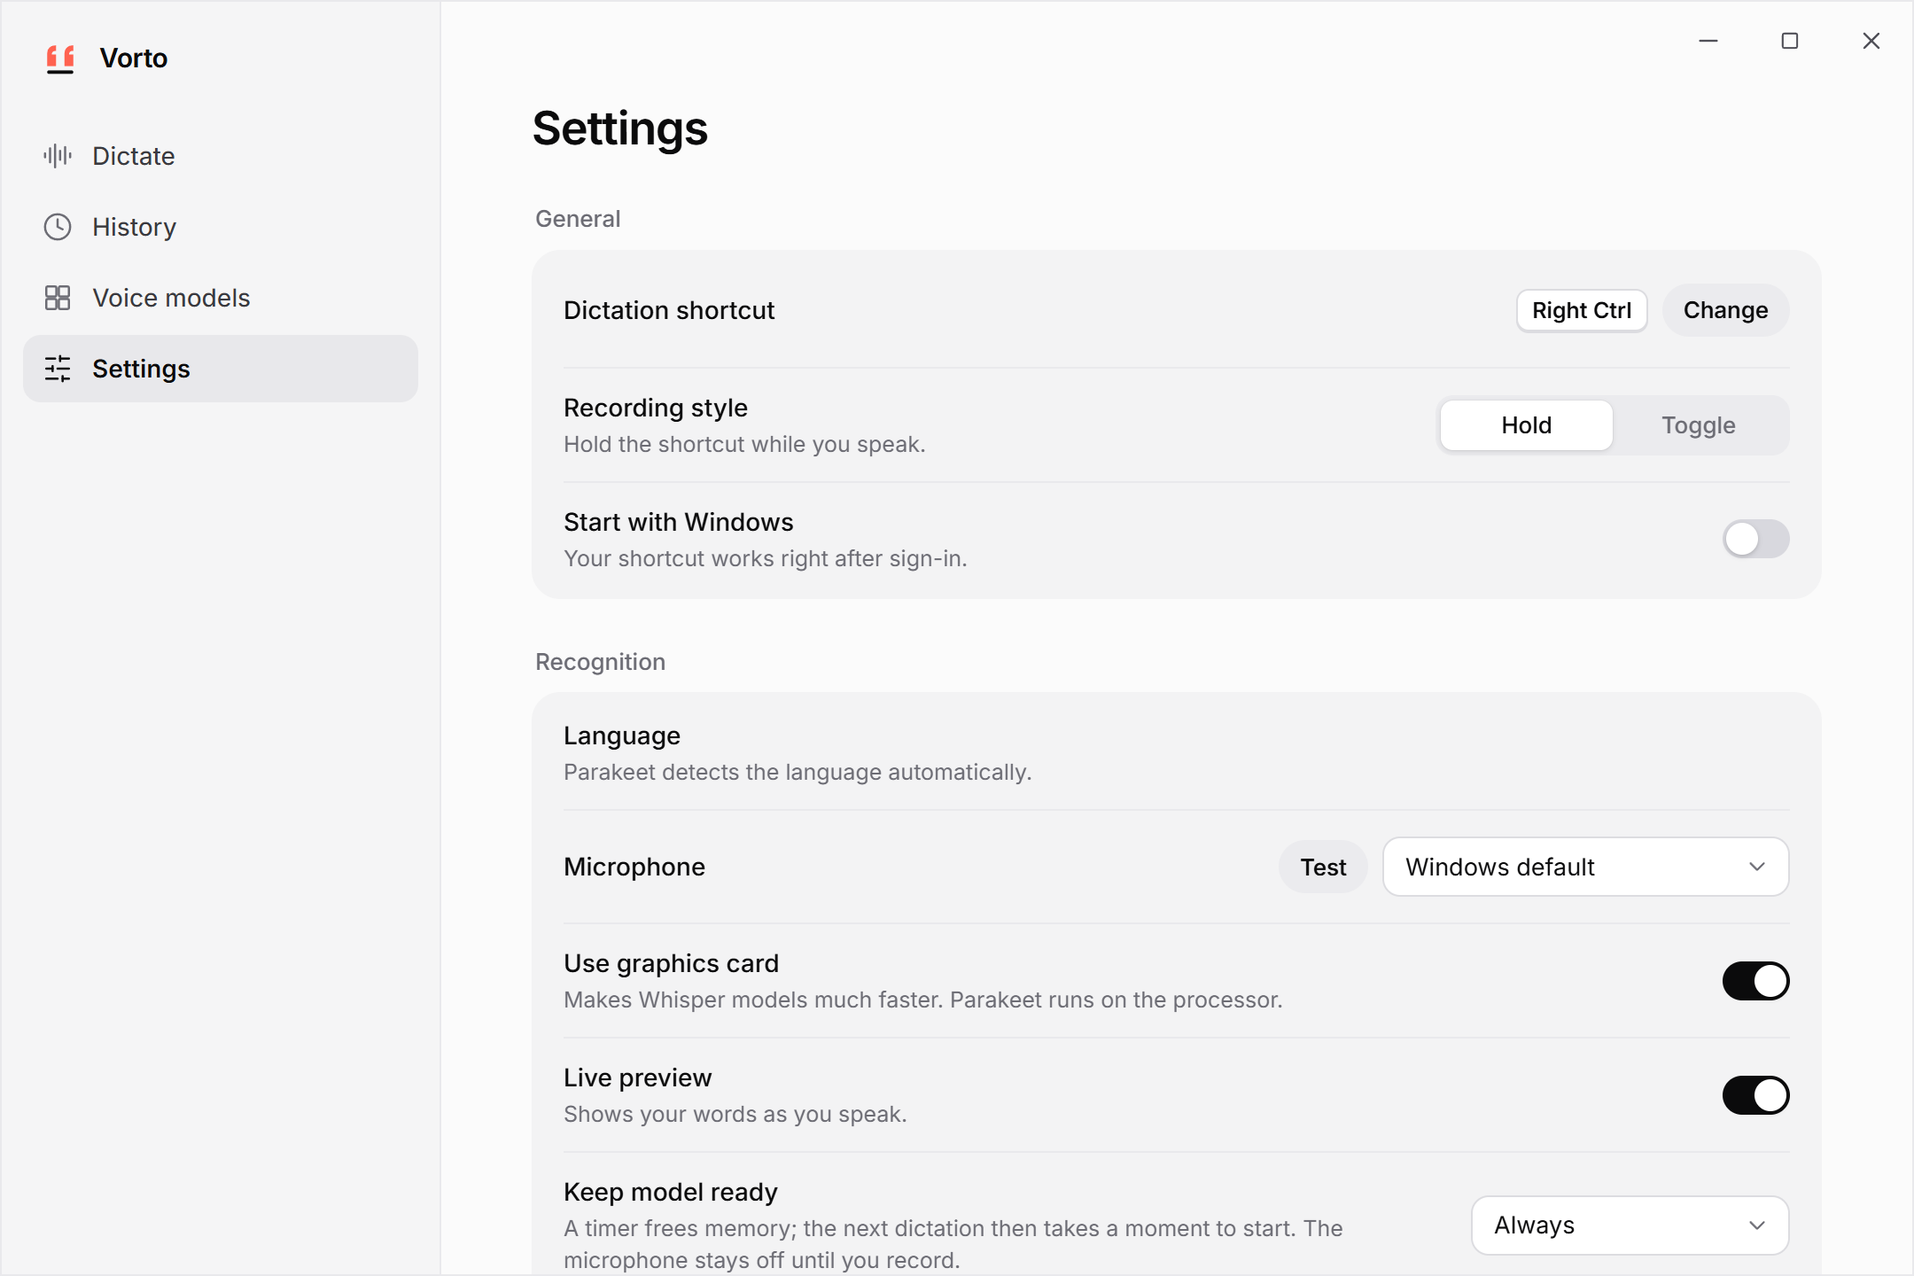
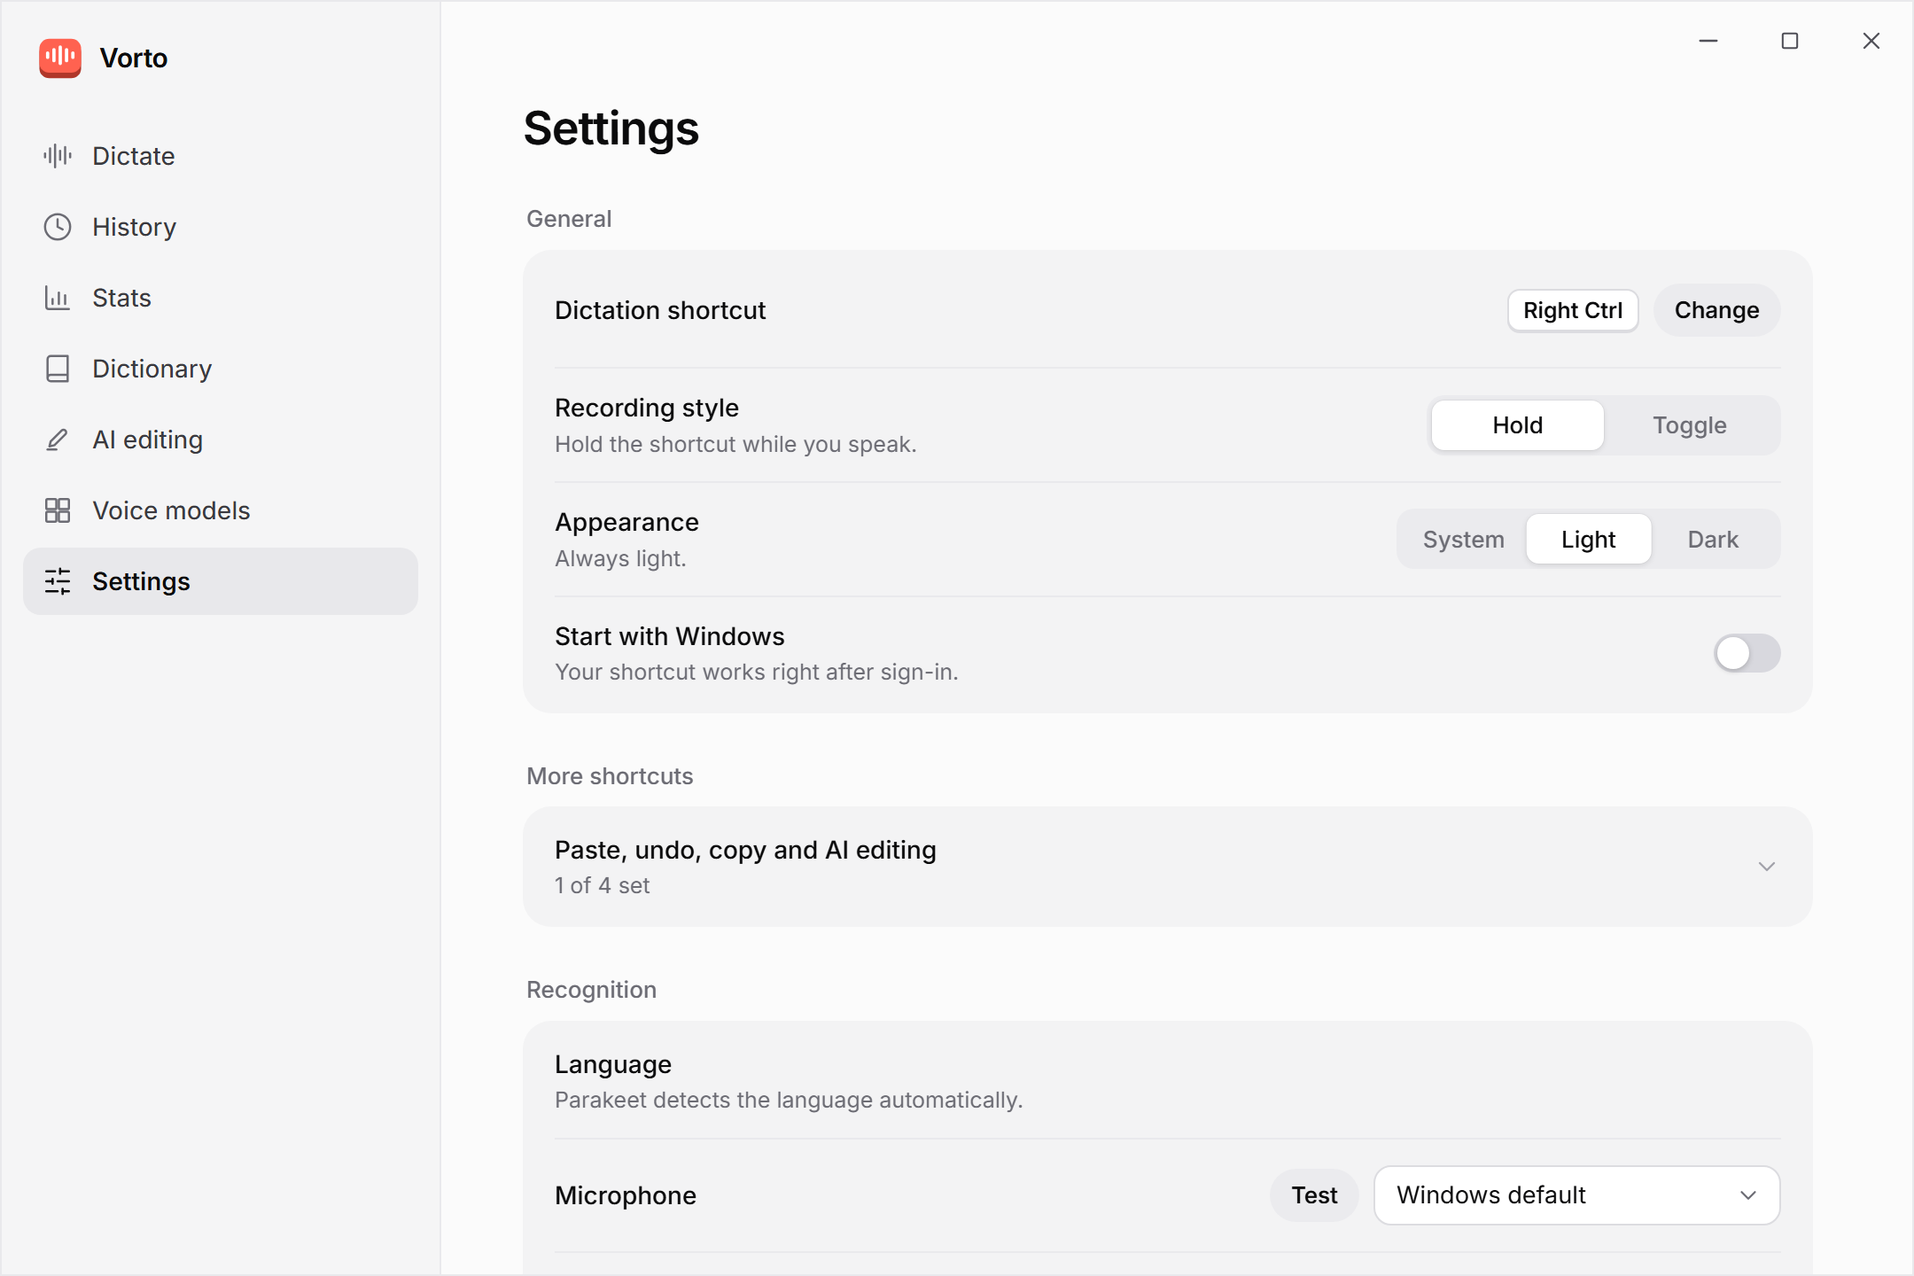
Refresh the README and its screenshots for 1.0.2
A shorter, clearer README with a gallery of AI editing, Stats, History
and voice models, and new light and dark screenshots of every page and
the recording pill. The design mock shows version 1.0.2 and believable
numbers.

diff --git a/ui/src/lib/mock.js b/ui/src/lib/mock.js
@@ -24,7 +24,7 @@ export function startMock({ app, level, route }) {
       shortcuts: { paste_last: [0x11, 0x12, 0x56], undo_last: [], toggle_ai: [], copy_last: [] },
       ai: {
         enabled: true, timeout_secs: 20,
-        providers: params.get("ai") === "empty" ? [] : [{ id: "ollama", name: "Ollama", kind: "openai", base_url: "http://localhost:11434/v1", model: "qwen2.5:0.5b", allow_remote: false }],
+        providers: params.get("ai") === "empty" ? [] : [{ id: "ollama", name: "Ollama", kind: "openai", base_url: "http://localhost:11434/v1", model: "qwen2.5:3b", allow_remote: false }],
         profiles: ["email", "chat", "prompt", "notes", "formal", "clean"].map((id) => ({ id, name: id, enabled: id === "email" || id === "clean", prompt: "", provider: "", model: "", apps: id === "email" ? ["olk.exe"] : [], titles: id === "email" ? ["Gmail"] : [], everywhere: id === "clean" })),
       },
     },
@@ -35,11 +35,11 @@ export function startMock({ app, level, route }) {
       { text: "Could you send me last month's invoice one more time? Thanks so much!", at: day(1, "18:20"), seconds: 5.2, app: "WhatsApp" },
       { text: "Refactor the settings loader so invalid values fall back to safe defaults.", at: day(3, "09:12"), seconds: 4.0, app: "Visual Studio Code" },
     ],
-    wordsToday: 1284, latest: "", notice: { id: 0, text: "", kind: "info", topic: "" },
+    wordsToday: 31, latest: "", notice: { id: 0, text: "", kind: "info", topic: "" },
     target: { name: "Google Chrome", icon: "" },
     hud: { mode: hudMode ?? "hidden", text: params.get("text") ?? hudText[hudMode] ?? "", live: params.get("live") ?? "" },
     microphones: ["Microphone (SM950 Microphone)", "Headset (Arctis 7)"],
-    dataDir: String.raw`C:\Users\you\AppData\Local\app.vorto.desktop`, version: "1.0.0", gpuBuild: true,
+    dataDir: String.raw`C:\Users\you\AppData\Local\app.vorto.desktop`, version: "1.0.2", gpuBuild: true,
     micTest: false, autostart: false, appIcons: {},
     apiKeys: {}, providersLocal: [true], aiModels: {}, aiTest: { id: 0, status: "", text: "", millis: 0 },
     apps: [

diff --git a/README.md b/README.md
@@ -7,7 +7,7 @@
 **Talk into any app on your PC. Your voice never leaves it.**
 
 Local, open-source dictation for Windows. Hold a shortcut, speak and let go:<br>
-Vorto writes it down right where you were typing.
+Vorto writes it down right where you were typing, and can polish it with AI on the way.
 
 [![Latest release](https://img.shields.io/github/v/release/edgar-kessler/vorto?label=release&color=ff6250)](https://github.com/edgar-kessler/vorto/releases/latest)
 [![Downloads](https://img.shields.io/github/downloads/edgar-kessler/vorto/total?color=6c6c74)](https://github.com/edgar-kessler/vorto/releases)
@@ -22,29 +22,60 @@ Vorto writes it down right where you were typing.
 
 <picture>
   <source media="(prefers-color-scheme: dark)" srcset="docs/images/dictate-dark.png">
-  <img src="docs/images/dictate-light.png" width="860" alt="The Vorto window on its Dictate page: Hold Right Ctrl and speak in any app, with today's word and dictation count.">
+  <img src="docs/images/dictate-light.png" width="860" alt="The Vorto window on its Dictate page: Hold Right Ctrl and speak in any app.">
 </picture>
 
 </div>
 
 ## Highlights
 
-- **Works in any app.** Mail, chats, documents, the browser: wherever you can type, Vorto pastes or types your words.
-- **Watch the words arrive.** A small pill at the top or bottom of the screen shows your words while you speak, and the app they're going into.
-- **Stays on your PC.** Recognition runs locally. No account, no uploads, no telemetry.
-- **Long dictations stay quick.** Vorto recognizes finished sentences while you're still talking, so the text is in place a moment after you let go.
-- **Your shortcut, your way.** Any key or key combination, even a single key like Menu. Hold to talk, or press once to start and again to finish. <kbd>Esc</kbd> cancels.
-- **The right voice model for your PC.** Parakeet v3 for 25 European languages on any modern processor, or Whisper for 99 languages.
-- **Your words, your spelling.** A dictionary for names and terms, and replacements such as "new paragraph" for a line break.
-- **AI editing, if you want it.** A language model rewrites each dictation the way you describe for that app, say a polite email in Outlook or a clear prompt in Claude. It runs on your PC with Ollama or LM Studio, or with a provider you choose.
-- **History.** Your last 100 dictations, ready to copy or paste again. Or none, if you turn it off.
-- **Quiet until you need it.** Vorto waits in the tray, can start with Windows, follows light and dark mode and keeps itself up to date.
+- **Works in any app.** Mail, chats, documents, the browser: wherever you can type, Vorto pastes or types your words. A small pill shows them while you speak.
+- **Stays on your PC.** Recognition runs locally with Parakeet v3 or Whisper. No account, no uploads, no telemetry.
+- **Quick, even for long dictations.** Finished sentences are recognized while you're still talking, so the text is in place a moment after you let go.
+- **AI editing, if you want it.** Presets turn what you said into a polite email in Outlook, a clear prompt in Claude or tidy notes, with a model on your PC or a provider you choose.
+- **Your words, your spelling.** A dictionary for names and terms, replacements, and layout by voice: "new line", "as bullet points".
+- **See what it saves you.** Stats show the time saved compared with typing, and History keeps your last 100 dictations, grouped by app.
+
+<table>
+  <tr>
+    <td width="50%" valign="top">
+      <picture>
+        <source media="(prefers-color-scheme: dark)" srcset="docs/images/ai-editing-dark.png">
+        <img src="docs/images/ai-editing-light.png" alt="AI editing page: Ollama as the default provider and the presets Email, Chat message, AI prompt, Notes and lists and Formal writing.">
+      </picture>
+      <p align="center"><sub><b>AI editing</b></sub></p>
+    </td>
+    <td width="50%" valign="top">
+      <picture>
+        <source media="(prefers-color-scheme: dark)" srcset="docs/images/stats-dark.png">
+        <img src="docs/images/stats-light.png" alt="Stats page: 5 h 15 min saved, words, dictations, time spoken and a chart of the last 30 days.">
+      </picture>
+      <p align="center"><sub><b>Stats</b></sub></p>
+    </td>
+  </tr>
+  <tr>
+    <td width="50%" valign="top">
+      <picture>
+        <source media="(prefers-color-scheme: dark)" srcset="docs/images/history-dark.png">
+        <img src="docs/images/history-light.png" alt="History page with dictations grouped by the app they went into.">
+      </picture>
+      <p align="center"><sub><b>History</b></sub></p>
+    </td>
+    <td width="50%" valign="top">
+      <picture>
+        <source media="(prefers-color-scheme: dark)" srcset="docs/images/voice-models-dark.png">
+        <img src="docs/images/voice-models-light.png" alt="Voice models page with Parakeet v3 in use and three Whisper models, each with speed and accuracy.">
+      </picture>
+      <p align="center"><sub><b>Voice models</b></sub></p>
+    </td>
+  </tr>
+</table>
 
 ## Download & install
 
 1. Download **[Vorto-Setup.exe](https://github.com/edgar-kessler/vorto/releases/latest/download/Vorto-Setup.exe)** from the [latest release](https://github.com/edgar-kessler/vorto/releases/latest).
 2. Run it. Vorto installs for your account into `%LOCALAPPDATA%\Vorto` and doesn't need administrator rights. If Microsoft Edge WebView2 is missing, the installer adds it.
-3. The short onboarding helps you download a voice model (once) and pick your shortcut.
+3. The short setup helps you download a voice model (once), test your microphone, pick your shortcut and, if you like, connect AI editing.
 4. Click into any text field, hold <kbd>Right Ctrl</kbd>, speak and let go.
 
 > [!NOTE]
@@ -64,49 +95,17 @@ Processors without AVX2, such as the Celeron N4000, N4500 and N5100 or the Penti
 
 ## Using Vorto
 
-<table>
-  <tr>
-    <td width="33%" valign="top">
-      <picture>
-        <source media="(prefers-color-scheme: dark)" srcset="docs/images/voice-models-dark.png">
-        <img src="docs/images/voice-models-light.png" alt="Voice models page with Parakeet v3 in use and three Whisper models.">
-      </picture>
-      <p align="center"><sub><b>Voice models</b></sub></p>
-    </td>
-    <td width="33%" valign="top">
-      <picture>
-        <source media="(prefers-color-scheme: dark)" srcset="docs/images/history-dark.png">
-        <img src="docs/images/history-light.png" alt="History page listing recent dictations with the app each went into.">
-      </picture>
-      <p align="center"><sub><b>History</b></sub></p>
-    </td>
-    <td width="33%" valign="top">
-      <picture>
-        <source media="(prefers-color-scheme: dark)" srcset="docs/images/settings-dark.png">
-        <img src="docs/images/settings-light.png" alt="Settings page with the dictation shortcut, recording style and recognition options.">
-      </picture>
-      <p align="center"><sub><b>Settings</b></sub></p>
-    </td>
-  </tr>
-</table>
-
 ### Dictate
 
-Hold your shortcut in any app, speak and let go. Your words go where the cursor was. <kbd>Esc</kbd> cancels a dictation, and nothing is kept. A dictation can be up to two minutes long.
+Hold your shortcut in any app, speak and let go. Your words go where the cursor was, and a short glow shows where they landed. <kbd>Esc</kbd> cancels, and nothing is kept. A dictation can be up to two minutes long.
 
-Change the shortcut in **Settings**. Any key or combination works, including a single key like <kbd>Menu</kbd>. **Recording style** switches between holding the shortcut and pressing it once to start and again to finish. To try Vorto without another app, use **Dictate here** on the Dictate page.
-
-Vorto pastes the text in one go, or types it out if you prefer (**Insertion method**). When it pastes, your clipboard is put back afterwards, and the dictation stays out of Windows clipboard history.
-
-A short glow shows where the words landed (**Show where text lands**). Browsers and apps built on them mark the inserted lines; apps that only say where the cursor is get a glowing bar there. Nothing in the app is selected or changed.
-
-### The recording pill
+Any key or combination works as the shortcut, including a single key like <kbd>Menu</kbd>. Hold it while you speak, or press once to start and again to finish (**Recording style**). Vorto pastes the text in one go and puts your clipboard back afterwards, or types it out if you prefer. Dictations stay out of Windows clipboard history.
 
 <p align="center">
-  <img src="docs/images/recording-pill.png" width="620" alt="The dark recording pill: Listening, Google Chrome, 0:06, and the words Thanks for the quick reply. Thursday at ten works great for me.">
+  <img src="docs/images/recording-pill.png" width="620" alt="The dark recording pill: Listening, Google Chrome, a timer, and the words Thanks for the quick reply. Thursday at ten works great for me.">
 </p>
 
-While you speak, the pill shows the app your words go into, a timer and the words as they come in. When you let go it shows a check once the text is in place. It sits at the top or the bottom of the screen (**Indicator position**), and **Live preview** turns the words off if you'd rather not see them.
+The pill at the top or bottom of the screen shows the app your words go into, a timer and the words as they come in, then a check once the text is in place.
 
 ### Voice models
 
@@ -121,39 +120,27 @@ Download one inside the app, once. After that, recognition runs on your PC.
 
 Parakeet runs on the processor through ONNX Runtime. Whisper runs through whisper.cpp, on the graphics card via Vulkan (NVIDIA, AMD and Intel) when there is one.
 
-### Dictionary
-
-Add names and terms under **Dictionary**, such as your company or a colleague's name. Whisper listens for them, and AI editing spells them your way. Vorto also suggests words you use often that look like names or terms.
-
-**Replacements** swap words in every dictation: "Vortho" becomes "Vorto", and "new paragraph" can become a line break (write `\n`).
-
 ### AI editing
 
-Turn on **AI editing** and a language model polishes each dictation before Vorto inserts it. Meanwhile the pill says **Polishing**; press <kbd>Esc</kbd> to insert your words as spoken instead. If the model takes too long or fails, Vorto inserts them as spoken too.
+Turn on **AI editing** and a language model rewrites each dictation before Vorto inserts it. The pill says **Polishing** meanwhile; <kbd>Esc</kbd> inserts your words as spoken instead, and so does a model that's slow or fails.
 
-- **Presets** say what happens: **Email**, **Chat message**, **AI prompt**, **Notes and lists**, **Formal writing** and **Clean up**. Turn on the ones you want and pick their apps from every app you've dictated into, with its icon. For websites, add a word from the browser tab's title, such as Gmail. One preset can also cover every app no other preset is for, and you can add your own wishes to any of them.
-- **Layout by voice:** say "new line", "three lines, the first says …" or "as bullet points", and AI editing lays the text out that way. Line breaks arrive as real line breaks, typed as Shift+Enter so chat apps don't send early.
-- **Providers:** [Ollama](https://ollama.com) or LM Studio on your PC, which Vorto finds on its own, or OpenAI, Anthropic, Google Gemini, Groq, Mistral, OpenRouter, DeepSeek, xAI, Together AI and any other OpenAI-compatible address. Pick one, paste your key and choose a model from the list the provider sends, with names, context sizes and prices from OpenRouter's public catalog where known. You can also type any model ID.
-- API keys are kept in Windows Credential Manager, not in Vorto's settings file.
-- **Try it** runs a preset on sample text, so you can compare models before you dictate. The default provider is marked; presets use its model unless you pick another.
+- **Presets:** Email, Chat message, AI prompt, Notes and lists, Formal writing and Clean up. Turn on the ones you want, pick their apps from the ones you've dictated into, or a website by a word from its tab title, such as Gmail. One preset can cover every other app, and you can add your own wishes to each. Email leaves the sign-off to your email signature.
+- **Layout by voice:** say "new line", "three lines, the first says …" or "as bullet points", and the text is laid out that way.
+- **Providers:** [Ollama](https://ollama.com) or LM Studio on your PC, found on their own, or OpenAI, Anthropic, Google Gemini, Groq, Mistral, OpenRouter, DeepSeek, xAI, Together AI and any OpenAI-compatible address. Paste a key, pick a model from the provider's list, or type any model ID. The default provider is marked, and presets use its model unless you choose another. API keys are kept in Windows Credential Manager.
 
 Small local models are fast but make mistakes. Models from about 3 billion parameters, such as `qwen2.5:3b` or `gemma3:4b` in Ollama, follow the instructions much more reliably. Vorto loads a local model while you speak, so it's ready when you let go.
 
-### Stats
+### Dictionary, Stats and History
 
-**Stats** shows how much time dictation saved you compared with typing at your own speed, words and dictations, time saved on each of the last 30 days and how long you've spoken into each app. It keeps only numbers, never text, and counts even with History off.
+- **Dictionary:** names and terms Vorto should spell your way (Whisper listens for them, AI editing keeps them), with suggestions from your dictations. **Replacements** swap words in every dictation, and `\n` stands for a line break.
+- **Stats:** the time dictation saved you compared with typing at your speed, words, dictations, the last 30 days and speaking time by app. Only numbers, never text.
+- **History:** your last 100 dictations, grouped by app or by day, ready to copy again. **Copy as spoken** gives you the original words when AI editing changed them. Turn off **Save history** to keep nothing.
 
-### The tray and more shortcuts
+### Tray, shortcuts and settings
 
-The tray icon's menu pastes or copies your last dictation, pastes one of the last five again, turns AI editing on or off, and opens History, the Dictionary or Settings.
+The tray icon's menu pastes or copies your last dictation, pastes one of the last five again and turns AI editing on or off. **Settings → More shortcuts** sets key combinations for the same, plus undoing the last insertion.
 
-Under **Settings → More shortcuts** you can set key combinations to paste your last dictation again, undo the last insertion, copy the last dictation and turn AI editing on or off.
-
-### History and settings
-
-**History** keeps your last 100 dictations on your PC, grouped by the app each one went into or by day, ready to copy again. When AI editing changed a dictation, **Copy as spoken** gives you your original words. Turn off **Save history** in Settings to keep nothing.
-
-**Settings** also covers light or dark appearance (or following Windows), the microphone, the language, starting with Windows, whether the model stays loaded, and updates. **Reset everything** deletes your settings, dictionary, AI editing setup, API keys, History and Stats and starts the setup again; downloaded voice models stay. Closing the window keeps Vorto in the tray. To quit, choose **Quit Vorto** from the tray icon's menu.
+**Settings** also covers appearance (light, dark or like Windows), the microphone, the language, sounds, starting with Windows, whether the model stays loaded, and updates. **Reset everything** deletes your settings, dictionary, AI editing setup, API keys, History and Stats and starts the setup again; downloaded voice models stay. Closing the window keeps Vorto in the tray; **Quit Vorto** is in the tray icon's menu.
 
 ## Privacy
 
@@ -250,6 +237,7 @@ In `%LOCALAPPDATA%\app.vorto.desktop`. Open it from **Settings → About → Dat
 
 - `settings.json`: your settings
 - `history.json`: your last 100 dictations
+- `stats.json` and `apps.json`: numbers for Stats and the apps you dictated into, never text
 - `models\`: downloaded voice models
 - `vorto.log` and `engine.log`: diagnostics, never transcripts
 
@@ -311,5 +299,6 @@ Vorto stands on the work of others:
 - [Whisper](https://github.com/openai/whisper) by OpenAI (MIT), through [whisper.cpp](https://github.com/ggml-org/whisper.cpp) by ggml-org (MIT)
 - [ONNX Runtime](https://github.com/microsoft/onnxruntime) (MIT), through the [`ort`](https://github.com/pykeio/ort) crate
 - [Tauri](https://tauri.app), [Svelte](https://svelte.dev) and the [Inter](https://rsms.me/inter/) typeface (OFL)
+- AI provider logos from [LobeHub Icons](https://github.com/lobehub/lobe-icons) (MIT)
 
-The installer includes `THIRD-PARTY-NOTICES.txt` with the licenses of everything built into Vorto. NVIDIA, Parakeet, OpenAI and Whisper are trademarks of their respective owners. Vorto isn't affiliated with them.
+The installer includes `THIRD-PARTY-NOTICES.txt` with the licenses of everything built into Vorto. NVIDIA, Parakeet, OpenAI, Whisper and the names and logos of the AI providers are trademarks of their respective owners. Vorto isn't affiliated with them.
